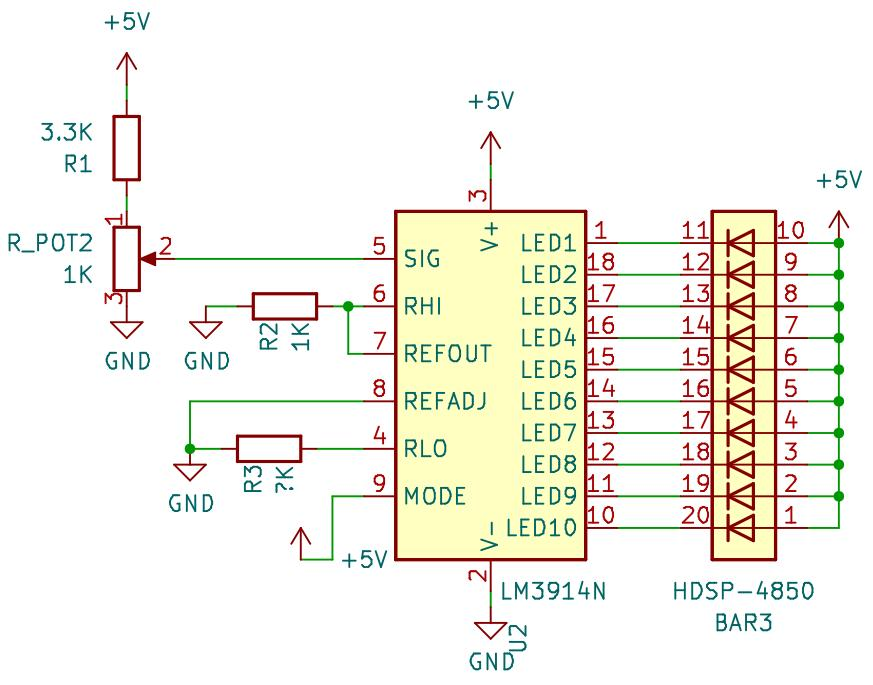
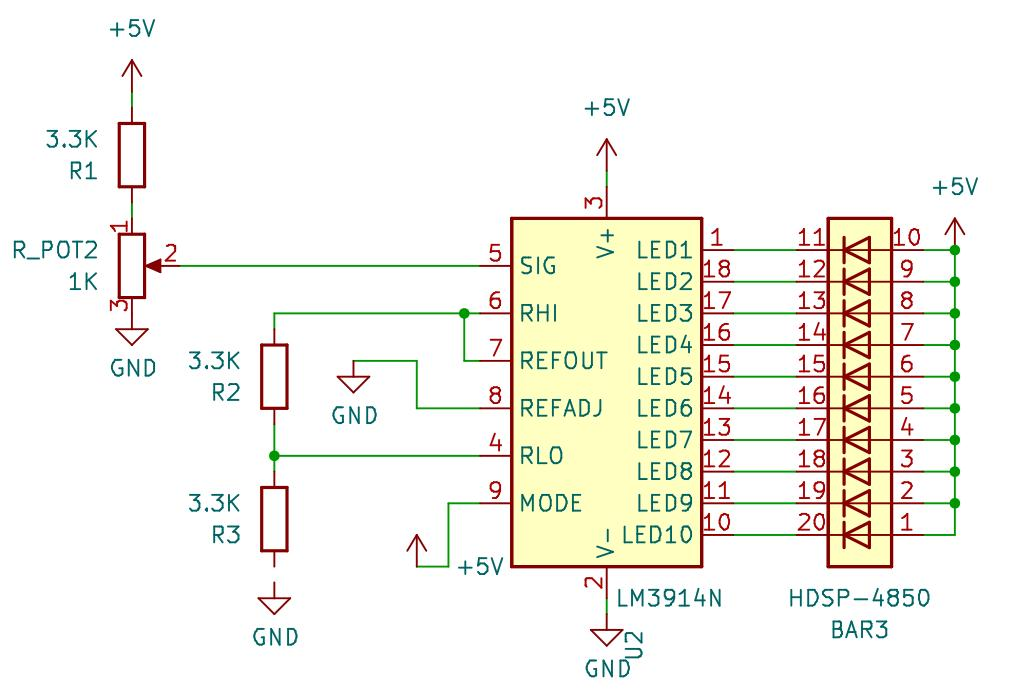
u

Changed region(s): [[0.0, 0.0, 0.9897, 0.981], [0.2474, 0.8584, 0.3093, 0.9504], [0.9278, 0.2453, 0.9897, 0.2759]]

diff --git a/techtips/Electronics/LM3914/circuit_04.html b/techtips/Electronics/LM3914/circuit_04.html
@@ -35,9 +35,30 @@
         <img src="images/circuit_04_schem.jpg" alt="circuit_04_schem" width="600">
 
         <p>
-          The SIG input can take a range between 0 V and 1.2 V.<br>
-          The voltage divider with R1 and R_POT proveds a voltage between 0 V and 1.2 V.
+          The potentiometer at the voltage divider R1 - R_POT2 lets us simulate a battery voltage between 0 V and 5 V
+          <br>
+          and maps the voltage range from <br>
+          0 V to 5 V<br>
+          to<br>
+          0 V to 1.2 V<br>
+
+          because the The SIG input can take a range between 0 V and 1.2 V.
+
         </p>
+
+        <p>
+          In this circuit, we want the LM3914 to turn on the LEDS only when the battery voltage is above 2 V
+        </p>
+
+
+
+        <p>
+          We need to set the voltage at RLO such that it equals the voltage at SIG when the voltage at
+
+        </p>
+
+
+
         For this circuit, we need to raise the lower voltage of the reference range to ? V.
 
 
